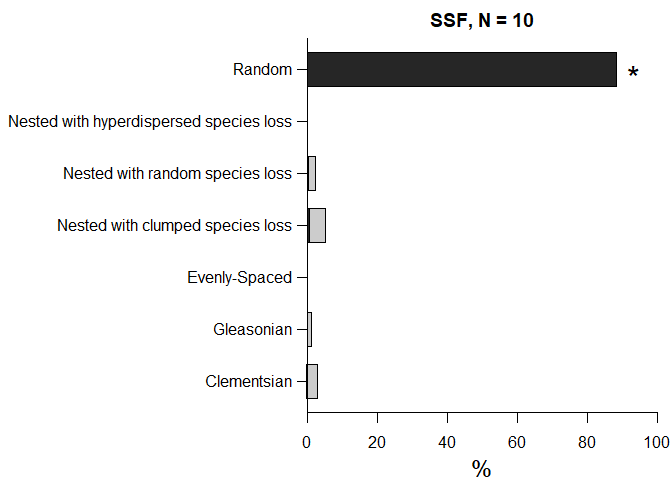
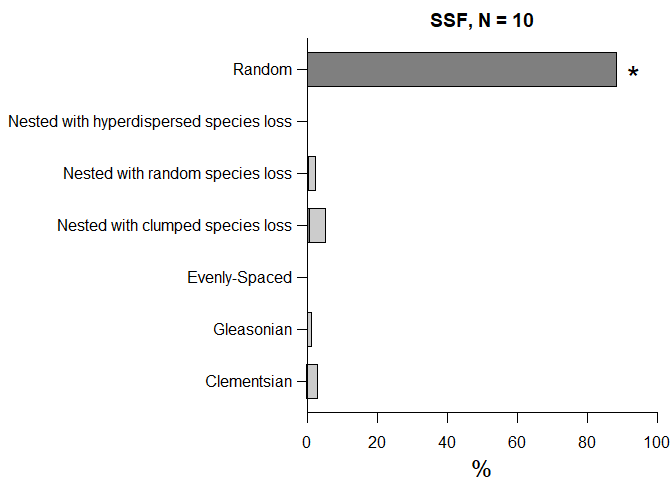
small changes.

Changed region(s): [[0.4375, 0.0938, 0.9375, 0.1875]]

diff --git a/EMS/EMS.md b/EMS/EMS.md
@@ -513,7 +513,7 @@ box()
 
 ![](EMS_files/figure-gfm/unnamed-chunk-27-1.png)<!-- -->
 
-Grey bars are Quasi structures.  
+Light grey bars are Quasi structures.  
 
 It seems that a sample size of 50 would be more than enough to identify
 the true co-occurrence pattern.    
@@ -585,20 +585,19 @@ Structures_SSF_20 <- as.matrix(t(data.frame(Structures = Structures_SSF_20[c(1,3
 
 par(mar = c(3.5,16,2,0.75), bty = "l")
 barplot(Structures_SSF_20,
-        axes = F, col = c("grey20", "grey80"), space = c(0, 0.5, 0.5, 0.5, 0.5, 0.5, 0.5),
+        axes = F, col = c("grey50", "grey80"), space = c(0, 0.5, 0.5, 0.5, 0.5, 0.5, 0.5),
         border = "black", xlim = c(0,100), axisnames= F, xlab = "", cex.lab = 1.25, main = "SSF, N = 20", horiz = TRUE, ylim = c(0,10))
 title(xlab = "%", line = 2.5, cex.lab = 1.5)
 axis(1)
 axis(2,at = c(0.5, 2, 3.5, 5, 6.5, 8, 9.5),line = -0.25, labels =names_structures[c(1,3,5,7,9,11,13)], tick = F,las = 1, hadj = 1, cex.axis = 1, gap.axis = -1, padj = 0.4)
 axis(2,at = c(0.5, 2, 3.5, 5, 6.5, 8, 9.5),line = 0, labels =FALSE, tick = T,las = 1, hadj = 1, cex.axis = 0.75, gap.axis = -1, padj = 0.4)
 text(x = sum(Structures_SSF_20[,7],5), y = 9.5,labels = "*", cex = 2)
-
 box()
 ```
 
 ![](EMS_files/figure-gfm/unnamed-chunk-31-1.png)<!-- -->
 
-Grey bars are Quasi structures.
+Light grey bars are Quasi structures.
 
  
 
@@ -663,7 +662,7 @@ Structures_DRF_20 <- as.matrix(t(data.frame(Structures = Structures_DRF_20[c(1,3
 
 par(mar = c(3.5,16,2,0.75), bty = "l")
 barplot(Structures_DRF_20,
-        axes = F, col = c("grey20", "grey80"), space = c(0, 0.5, 0.5, 0.5, 0.5, 0.5, 0.5),
+        axes = F, col = c("grey50", "grey80"), space = c(0, 0.5, 0.5, 0.5, 0.5, 0.5, 0.5),
         border = "black", xlim = c(0,100), axisnames= F, xlab = "", cex.lab = 1.25, main = "DRF, N = 20", horiz = TRUE, ylim = c(0,10))
 title(xlab = "%", line = 2.5, cex.lab = 1.5)
 axis(1)
@@ -676,7 +675,7 @@ box()
 
 ![](EMS_files/figure-gfm/unnamed-chunk-34-1.png)<!-- -->
 
-Grey bars are Quasi structures.
+Light grey bars are Quasi structures.
 
  
 
@@ -754,7 +753,7 @@ Structures_Broad_20 <- as.matrix(t(data.frame(Structures = Structures_Broad_20[c
 
 par(mar = c(3.5,16,2,0.75), bty = "l")
 barplot(Structures_Broad_20,
-        axes = F, col = c("grey20", "grey80"), space = c(0, 0.5, 0.5, 0.5, 0.5, 0.5, 0.5),
+        axes = F, col = c("grey50", "grey80"), space = c(0, 0.5, 0.5, 0.5, 0.5, 0.5, 0.5),
         border = "black", xlim = c(0,100), axisnames= F, xlab = "", cex.lab = 1.25, main = "Large, N = 20", horiz = TRUE, ylim = c(0,10))
 title(xlab = "%", line = 2.5, cex.lab = 1.5)
 axis(1)
@@ -767,7 +766,7 @@ box()
 
 ![](EMS_files/figure-gfm/unnamed-chunk-37-1.png)<!-- -->
 
-Grey bars are Quasi structures.
+Light grey bars are Quasi structures.
 
  
 
@@ -842,7 +841,7 @@ Structures_SSF_15 <- as.matrix(t(data.frame(Structures = Structures_SSF_15[c(1,3
 
 par(mar = c(3.5,16,2,0.75), bty = "l")
 barplot(Structures_SSF_15,
-        axes = F, col = c("grey15", "grey80"), space = c(0, 0.5, 0.5, 0.5, 0.5, 0.5, 0.5),
+        axes = F, col = c("grey50", "grey80"), space = c(0, 0.5, 0.5, 0.5, 0.5, 0.5, 0.5),
         border = "black", xlim = c(0,100), axisnames= F, xlab = "", cex.lab = 1.25, main = "SSF, N = 15", horiz = TRUE, ylim = c(0,10))
 title(xlab = "%", line = 2.5, cex.lab = 1.5)
 axis(1)
@@ -855,7 +854,7 @@ box()
 
 ![](EMS_files/figure-gfm/unnamed-chunk-41-1.png)<!-- -->
 
-Grey bars are Quasi structures.
+Light grey bars are Quasi structures.
 
  
 
@@ -921,7 +920,7 @@ Structures_DRF_15 <- as.matrix(t(data.frame(Structures = Structures_DRF_15[c(1,3
 
 par(mar = c(3.5,16,2,0.75), bty = "l")
 barplot(Structures_DRF_15,
-        axes = F, col = c("grey15", "grey80"), space = c(0, 0.5, 0.5, 0.5, 0.5, 0.5, 0.5),
+        axes = F, col = c("grey50", "grey80"), space = c(0, 0.5, 0.5, 0.5, 0.5, 0.5, 0.5),
         border = "black", xlim = c(0,100), axisnames= F, xlab = "", cex.lab = 1.25, main = "DRF, N = 15", horiz = TRUE, ylim = c(0,10))
 title(xlab = "%", line = 2.5, cex.lab = 1.5)
 axis(1)
@@ -934,7 +933,7 @@ box()
 
 ![](EMS_files/figure-gfm/unnamed-chunk-44-1.png)<!-- -->
 
-Grey bars are Quasi structures.
+Light grey bars are Quasi structures.
 
  
 
@@ -1016,7 +1015,7 @@ Structures_Broad_15 <- as.matrix(t(data.frame(Structures = Structures_Broad_15[c
 
 par(mar = c(3.5,16,2,0.75), bty = "l")
 barplot(Structures_Broad_15,
-        axes = F, col = c("grey15", "grey80"), space = c(0, 0.5, 0.5, 0.5, 0.5, 0.5, 0.5),
+        axes = F, col = c("grey50", "grey80"), space = c(0, 0.5, 0.5, 0.5, 0.5, 0.5, 0.5),
         border = "black", xlim = c(0,100), axisnames= F, xlab = "", cex.lab = 1.25, main = "Large, N = 15", horiz = TRUE, ylim = c(0,10))
 title(xlab = "%", line = 2.5, cex.lab = 1.5)
 axis(1)
@@ -1029,7 +1028,7 @@ box()
 
 ![](EMS_files/figure-gfm/unnamed-chunk-47-1.png)<!-- -->
 
-Grey bars are Quasi structures.
+Light grey bars are Quasi structures.
 
  
 
@@ -1104,20 +1103,19 @@ Structures_SSF <- as.matrix(t(data.frame(Structures = Structures_SSF[c(1,3,5,7,9
 
 par(mar = c(3.5,16,2,0.75), bty = "l")
 barplot(Structures_SSF,
-        axes = F, col = c("grey15", "grey80"), space = c(0, 0.5, 0.5, 0.5, 0.5, 0.5, 0.5),
+        axes = F, col = c("grey50", "grey80"), space = c(0, 0.5, 0.5, 0.5, 0.5, 0.5, 0.5),
         border = "black", xlim = c(0,100), axisnames= F, xlab = "", cex.lab = 1.25, main = "SSF, N = 10", horiz = TRUE, ylim = c(0,10))
 title(xlab = "%", line = 2.5, cex.lab = 1.5)
 axis(1)
 axis(2,at = c(0.5, 2, 3.5, 5, 6.5, 8, 9.5),line = -0.25, labels =names_structures[c(1,3,5,7,9,11,13)], tick = F,las = 1, hadj = 1, cex.axis = 1, gap.axis = -1, padj = 0.4)
 axis(2,at = c(0.5, 2, 3.5, 5, 6.5, 8, 9.5),line = 0, labels =FALSE, tick = T,las = 1, hadj = 1, cex.axis = 0.75, gap.axis = -1, padj = 0.4)
 text(x = sum(Structures_SSF[,7],5), y = 9.5,labels = "*", cex = 2)
-
 box()
 ```
 
 ![](EMS_files/figure-gfm/unnamed-chunk-51-1.png)<!-- -->
 
-Grey bars are Quasi structures.
+Light grey bars are Quasi structures.
 
  
 
@@ -1183,20 +1181,19 @@ Structures_DRF <- as.matrix(t(data.frame(Structures = Structures_DRF[c(1,3,5,7,9
 
 par(mar = c(3.5,16,2,0.75), bty = "l")
 barplot(Structures_DRF,
-        axes = F, col = c("grey15", "grey80"), space = c(0, 0.5, 0.5, 0.5, 0.5, 0.5, 0.5),
+        axes = F, col = c("grey50", "grey80"), space = c(0, 0.5, 0.5, 0.5, 0.5, 0.5, 0.5),
         border = "black", xlim = c(0,100), axisnames= F, xlab = "", cex.lab = 1.25, main = "DRF, N = 10", horiz = TRUE, ylim = c(0,10))
 title(xlab = "%", line = 2.5, cex.lab = 1.5)
 axis(1)
 axis(2,at = c(0.5, 2, 3.5, 5, 6.5, 8, 9.5),line = -0.25, labels =names_structures[c(1,3,5,7,9,11,13)], tick = F,las = 1, hadj = 1, cex.axis = 1, gap.axis = -1, padj = 0.4)
 axis(2,at = c(0.5, 2, 3.5, 5, 6.5, 8, 9.5),line = 0, labels =FALSE, tick = T,las = 1, hadj = 1, cex.axis = 0.75, gap.axis = -1, padj = 0.4)
 text(x = sum(Structures_DRF[,7],5), y = 9.5,labels = "*", cex = 2)
-
 box()
 ```
 
 ![](EMS_files/figure-gfm/unnamed-chunk-54-1.png)<!-- -->
 
-Grey bars are Quasi structures.
+Light grey bars are Quasi structures.
 
  
 
@@ -1274,7 +1271,7 @@ Structures_Broad <- as.matrix(t(data.frame(Structures = Structures_Broad[c(1,3,5
 
 par(mar = c(3.5,16,2,0.75), bty = "l")
 barplot(Structures_Broad,
-        axes = F, col = c("grey15", "grey80"), space = c(0, 0.5, 0.5, 0.5, 0.5, 0.5, 0.5),
+        axes = F, col = c("grey50", "grey80"), space = c(0, 0.5, 0.5, 0.5, 0.5, 0.5, 0.5),
         border = "black", xlim = c(0,100), axisnames= F, xlab = "", cex.lab = 1.25, main = "Large, N = 10", horiz = TRUE, ylim = c(0,10))
 title(xlab = "%", line = 2.5, cex.lab = 1.5)
 axis(1)
@@ -1286,7 +1283,7 @@ box()
 
 ![](EMS_files/figure-gfm/unnamed-chunk-57-1.png)<!-- -->
 
-Grey bars are Quasi structures.
+Light grey bars are Quasi structures.
 
  
 
